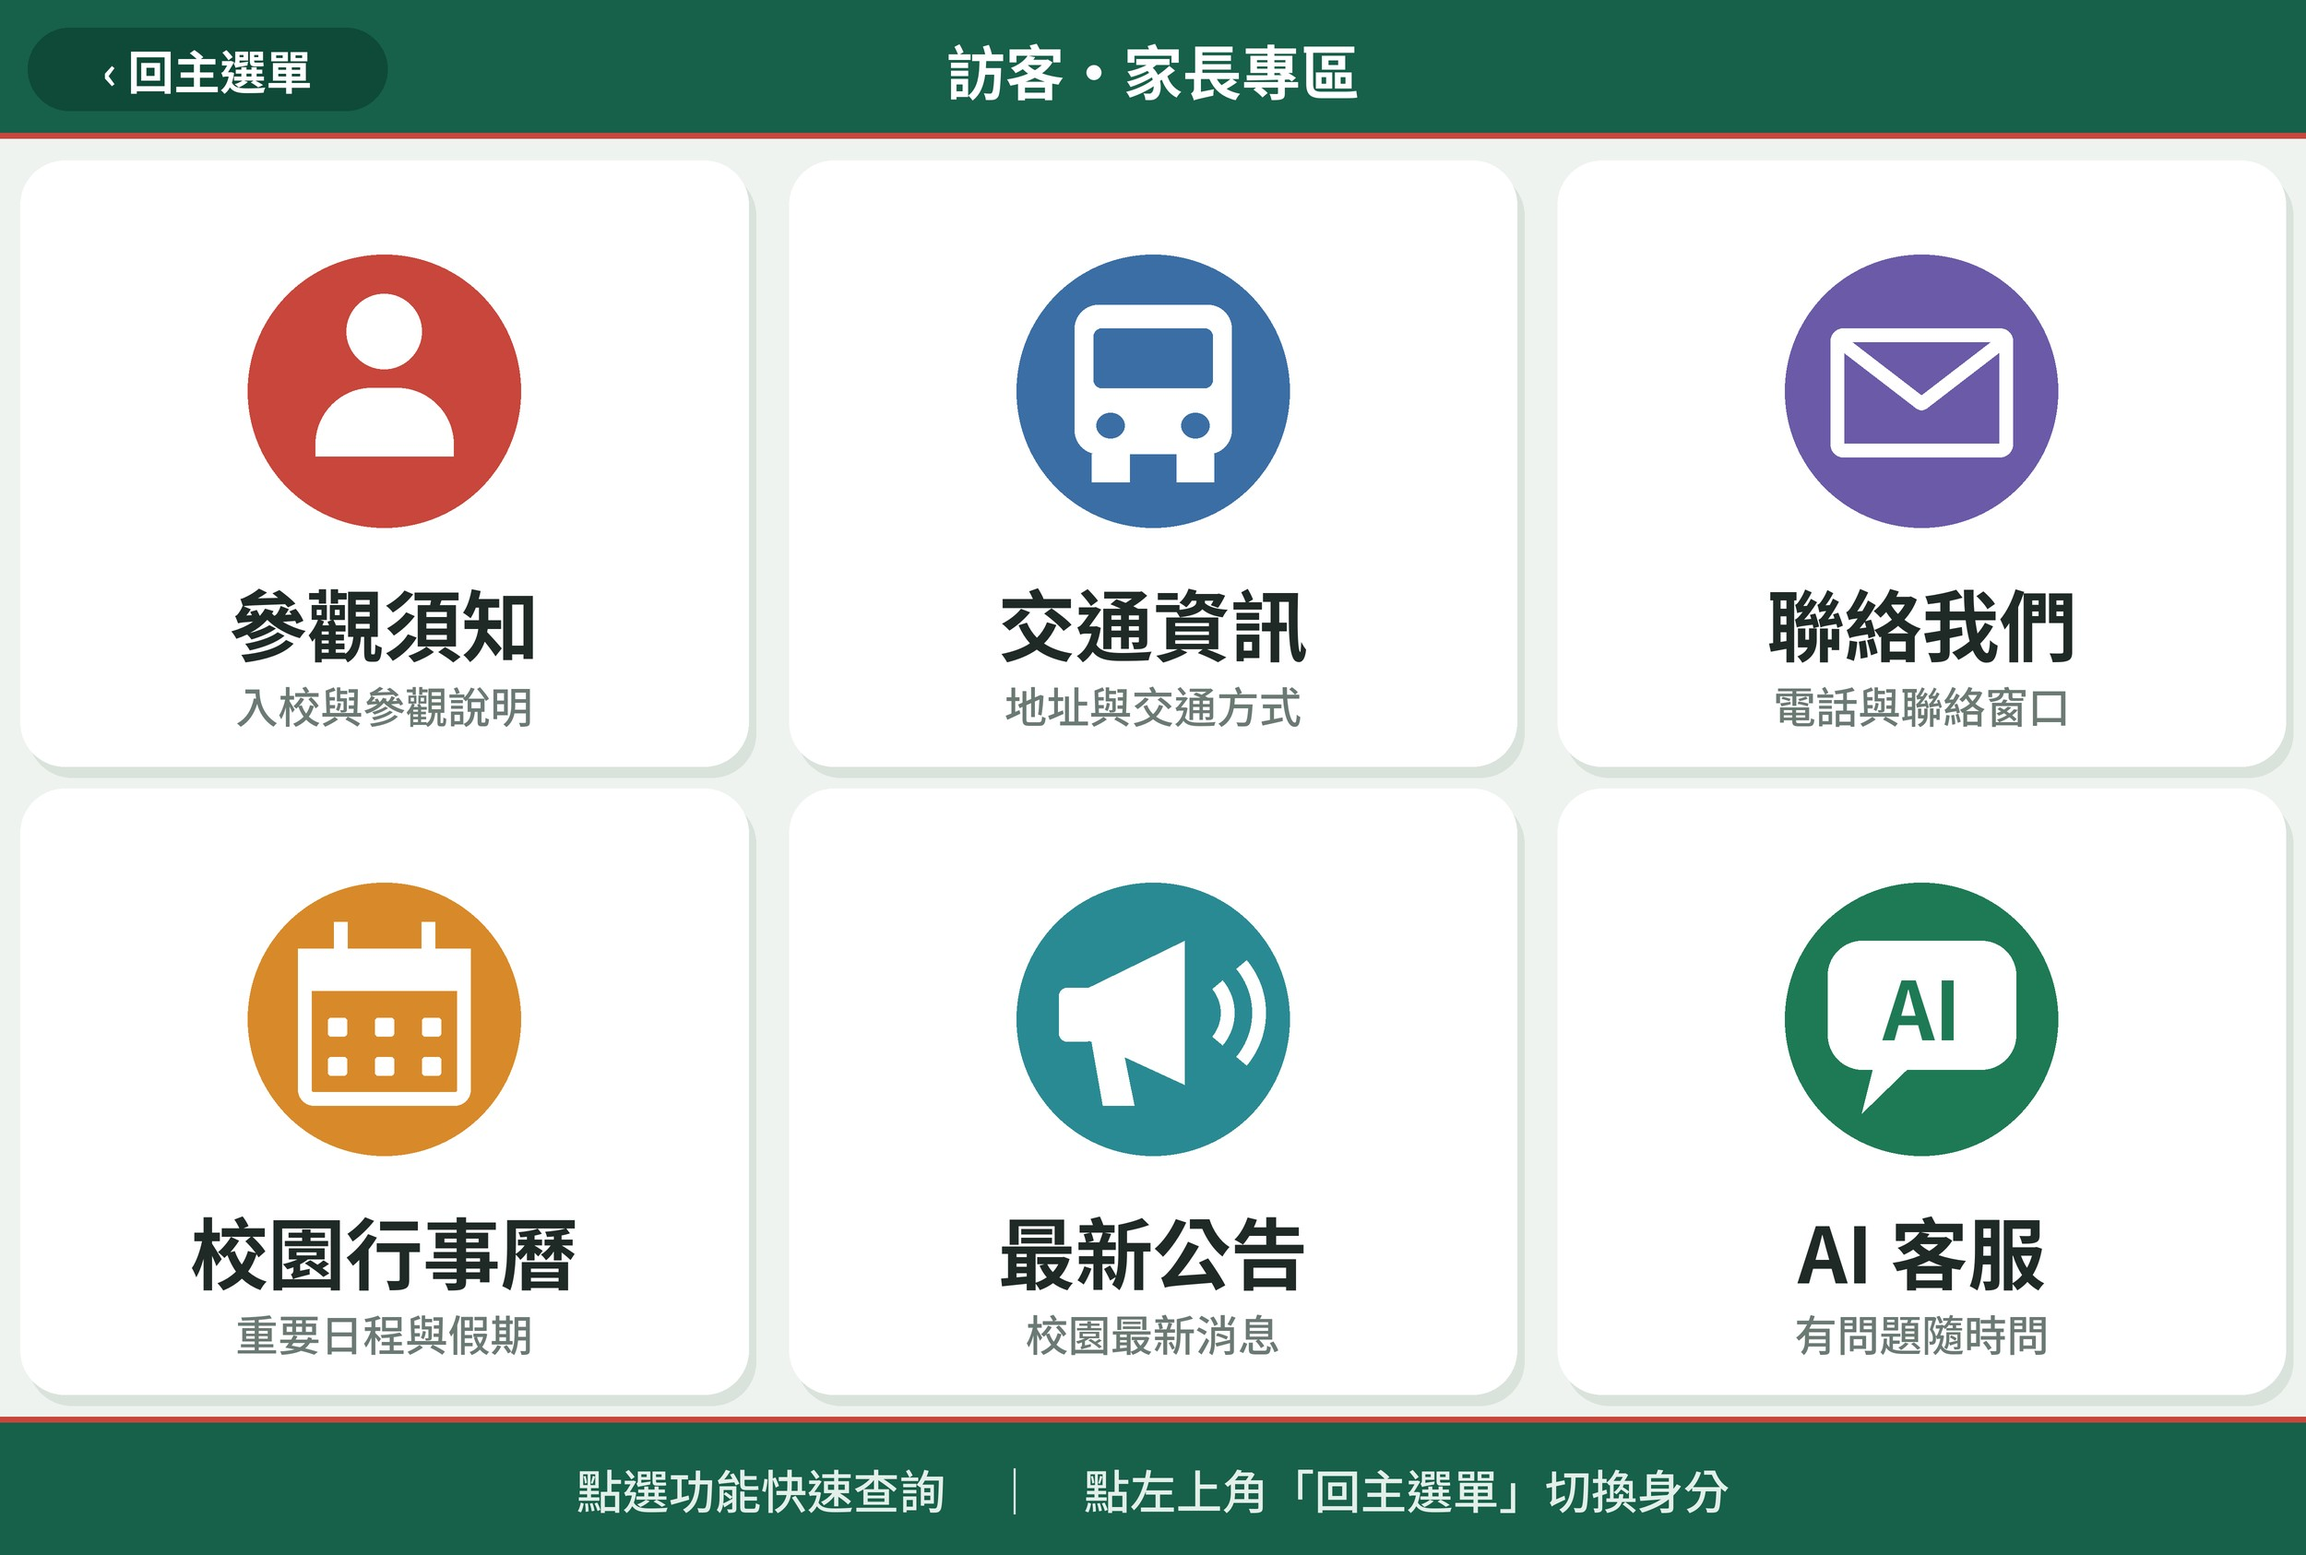
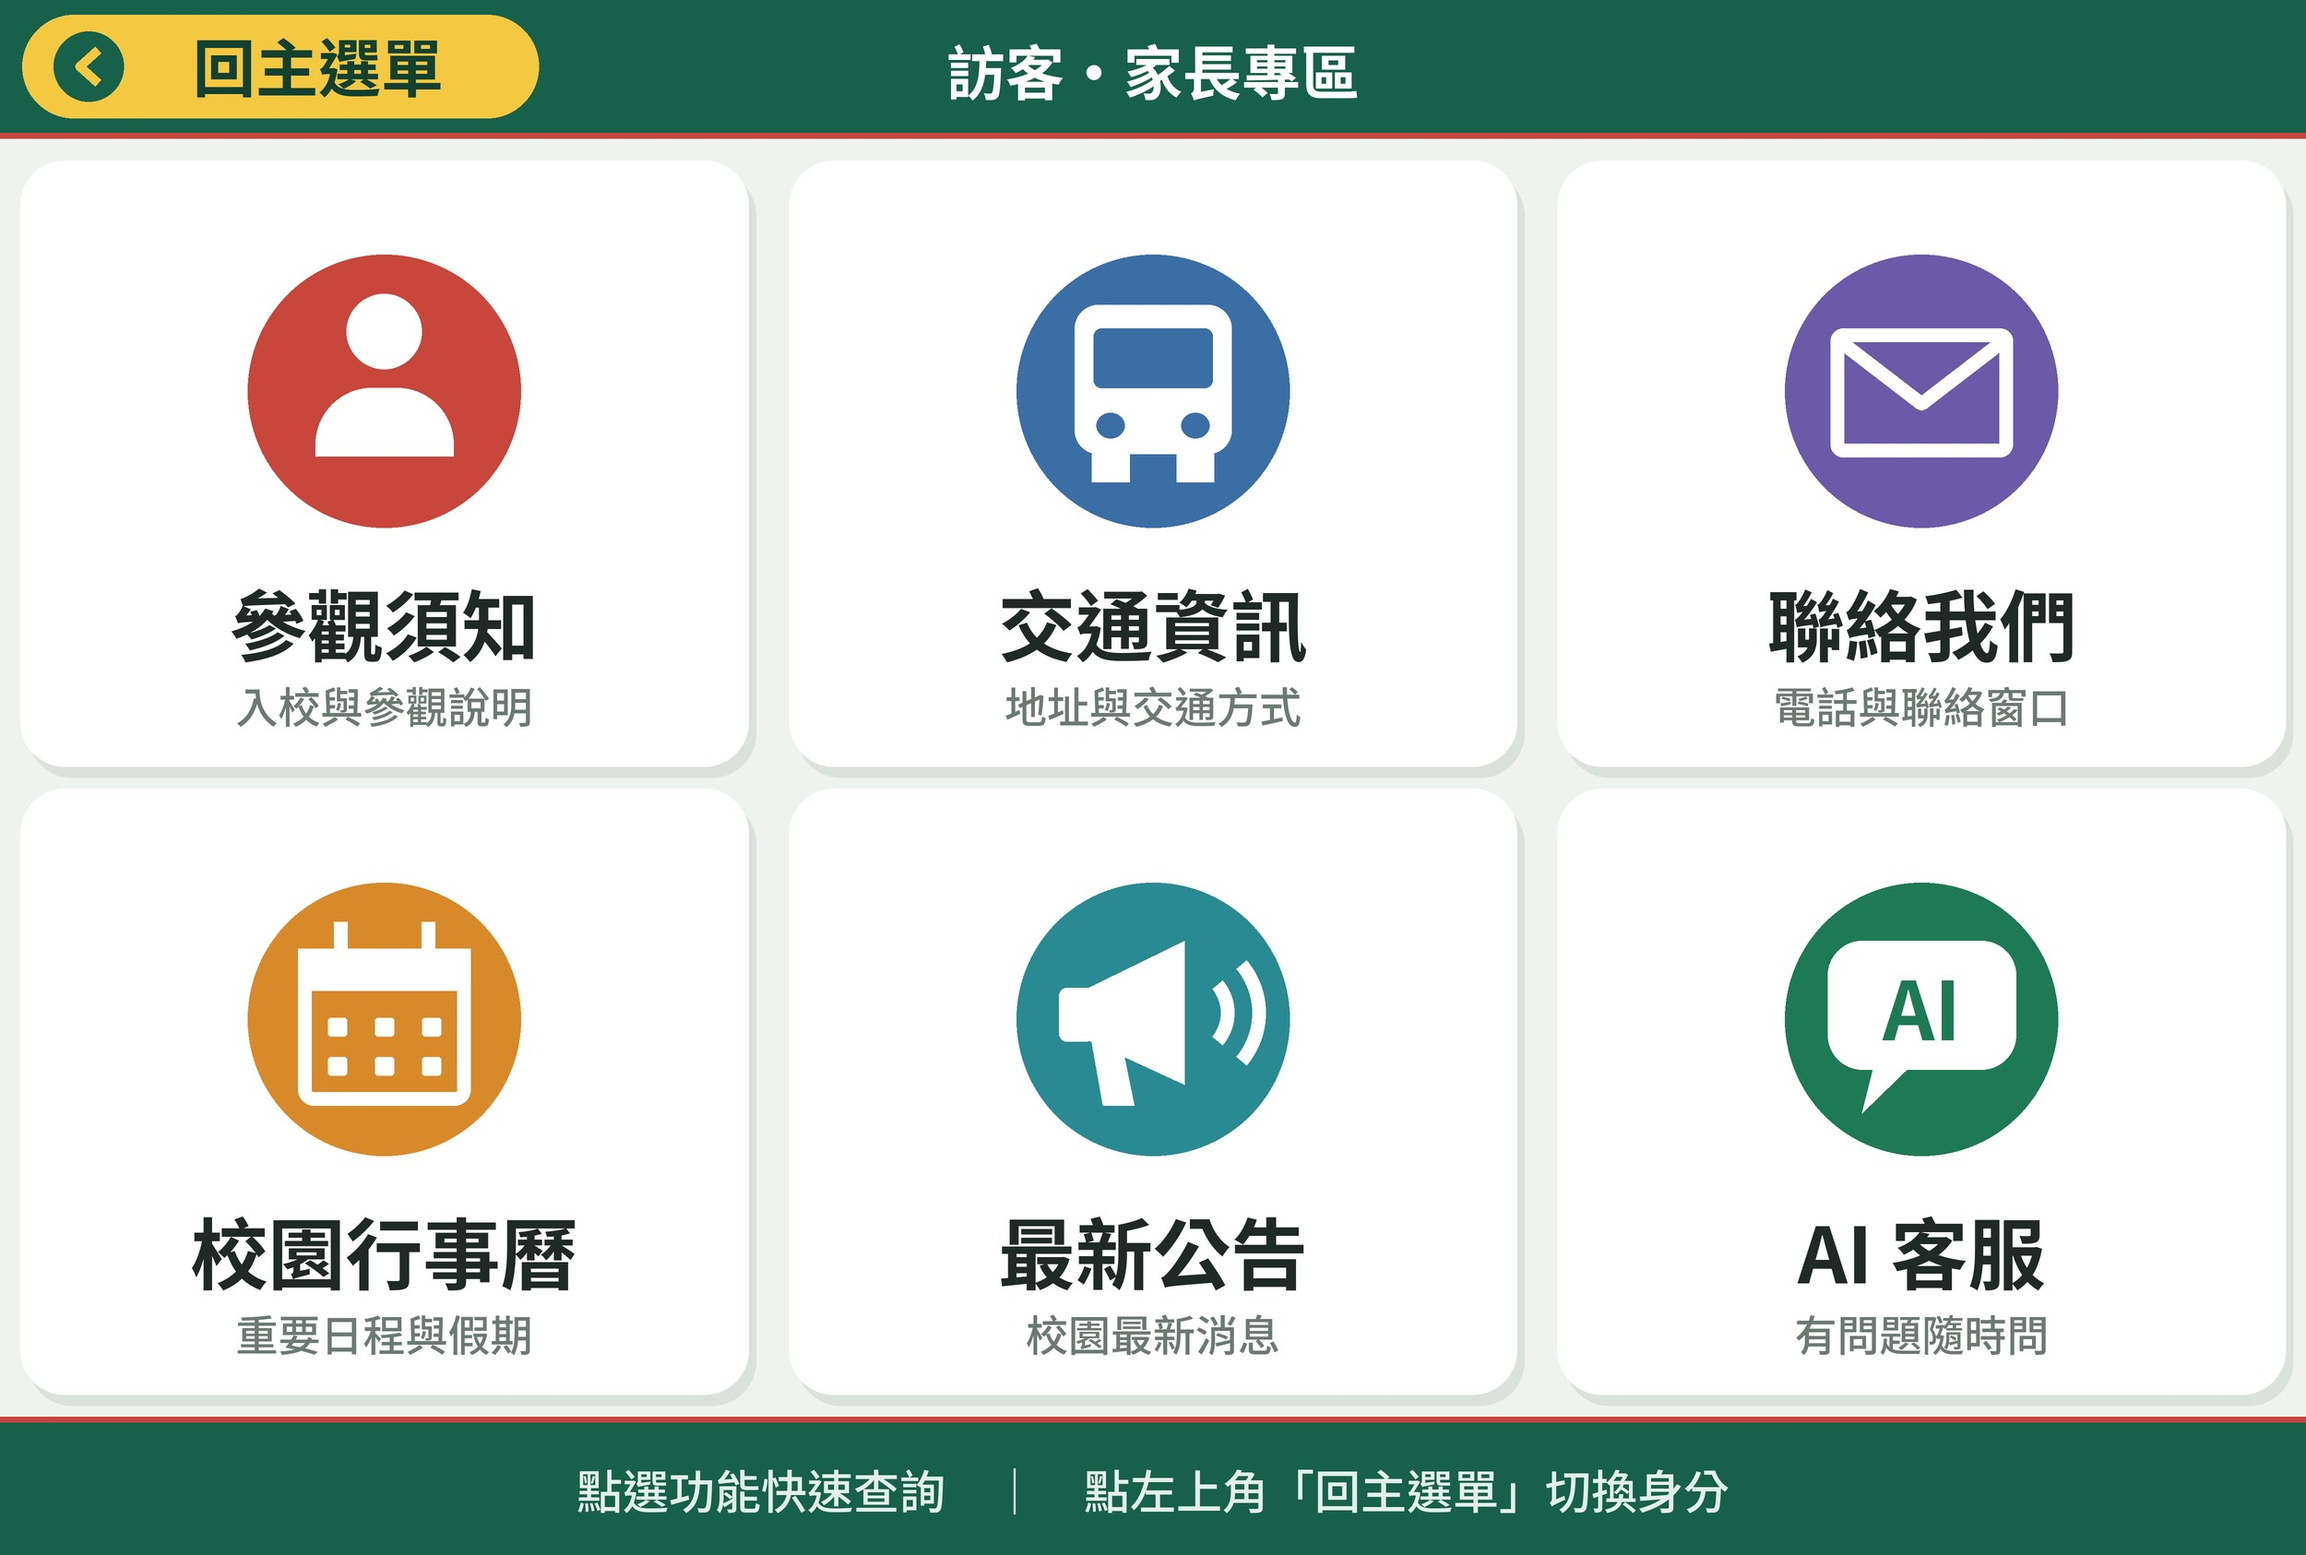
LINE 圖文選單換新版子選單圖，回主選單熱區加寬
- 學生/老師、訪客/家長子選單換上新版設計圖（圖示重新設計、回主選單按鈕放大變黃底）
- 熱區跟著圖調整：回主選單從寬 450 改成 620，避免點按鈕右半邊誤觸「課表查詢」/「參觀須知」
- 其餘格子標籤與連結對應不變，已重新套用到正式 LINE 帳號並確認無誤

Changed region(s): [[0.0, 0.0, 0.2496, 0.0925]]

diff --git a/tools/setup_richmenu.py b/tools/setup_richmenu.py
@@ -8,7 +8,9 @@
 
 座標是用實際的三張選單圖片 (line_assets/richmenu-*.jpg, 2500x1686) 量測出來的：
    標題列高 150px，內容兩排各 693px，底部列高 150px (150+693+693+150=1686)；
-   三欄寬度約略平分 (834/833/833)。子選單左上角 (0,0,450,150) 是「回主選單」熱區。
+   三欄寬度約略平分 (834/833/833)。子選單左上角 (0,0,620,150) 是「回主選單」熱區
+   (2026-11-16 換新版子選單圖後，回主選單按鈕放大變寬，熱區從 450 改成 620，
+   不然點按鈕右半邊會誤點到「課表查詢」/「參觀須知」)。
    這是用圖片量出來的最佳估計，正式執行前建議先用 GET /v2/bot/richmenu/list 比對
    現在線上的區域設定，避免跟實際已上線的版本有落差。
 
@@ -45,7 +47,7 @@ HEADER_H = 150
 ROW_H = 693          # 150 + 693 + 693 + 150 = 1686
 COL_X = [0, 834, 1667]
 COL_W = [834, 833, 833]
-BACK_BUTTON = {"x": 0, "y": 0, "width": 450, "height": HEADER_H}
+BACK_BUTTON = {"x": 0, "y": 0, "width": 620, "height": HEADER_H}
 
 
 def area(x, y, width, height, action):
